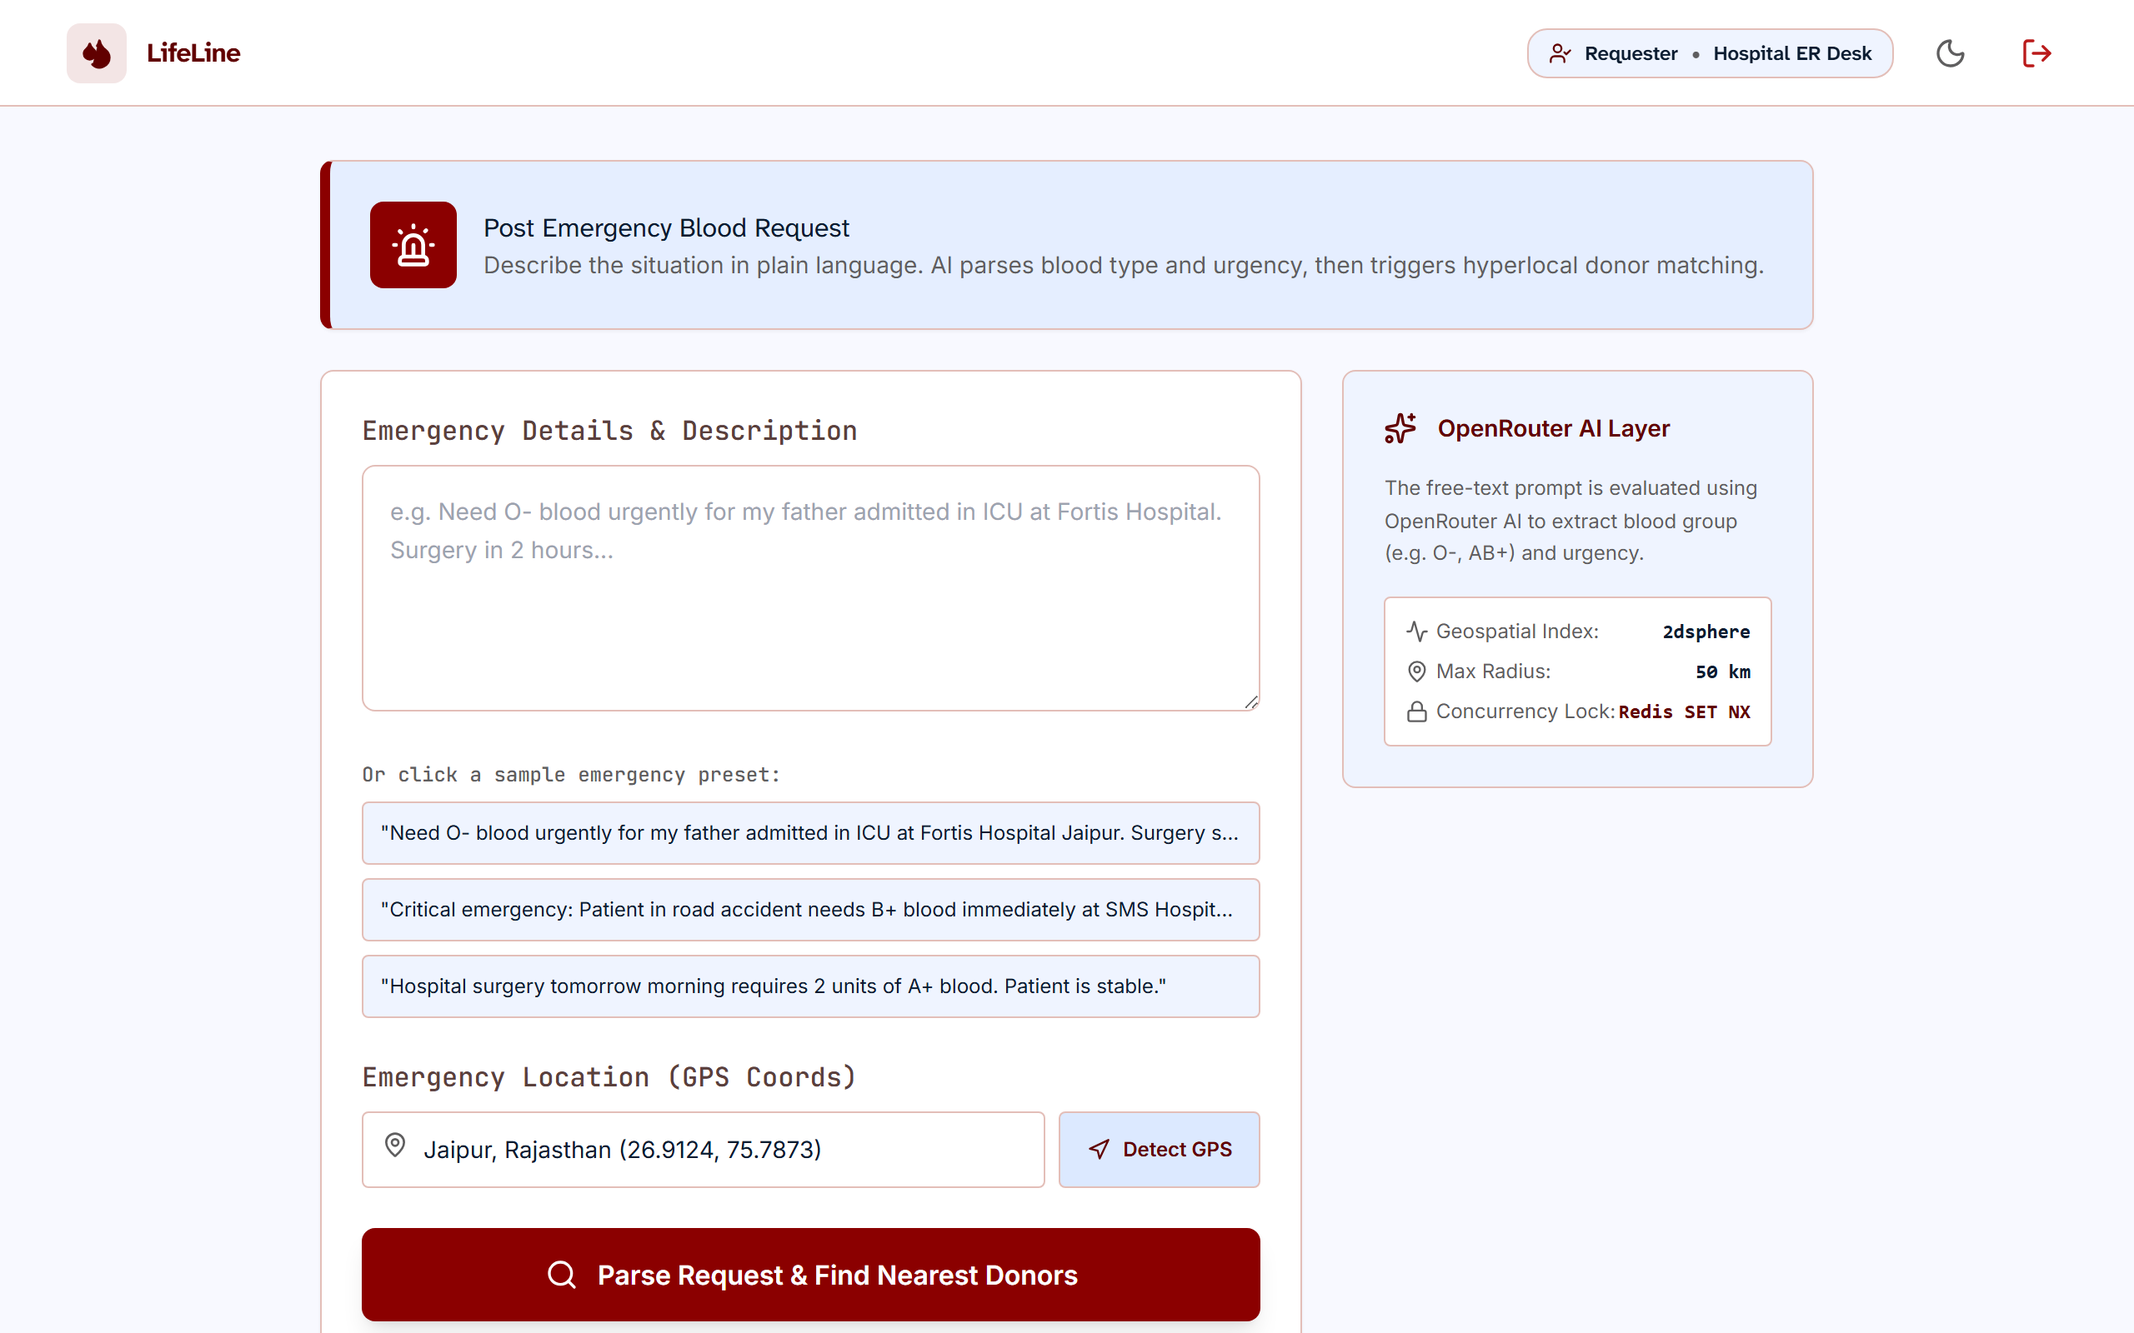
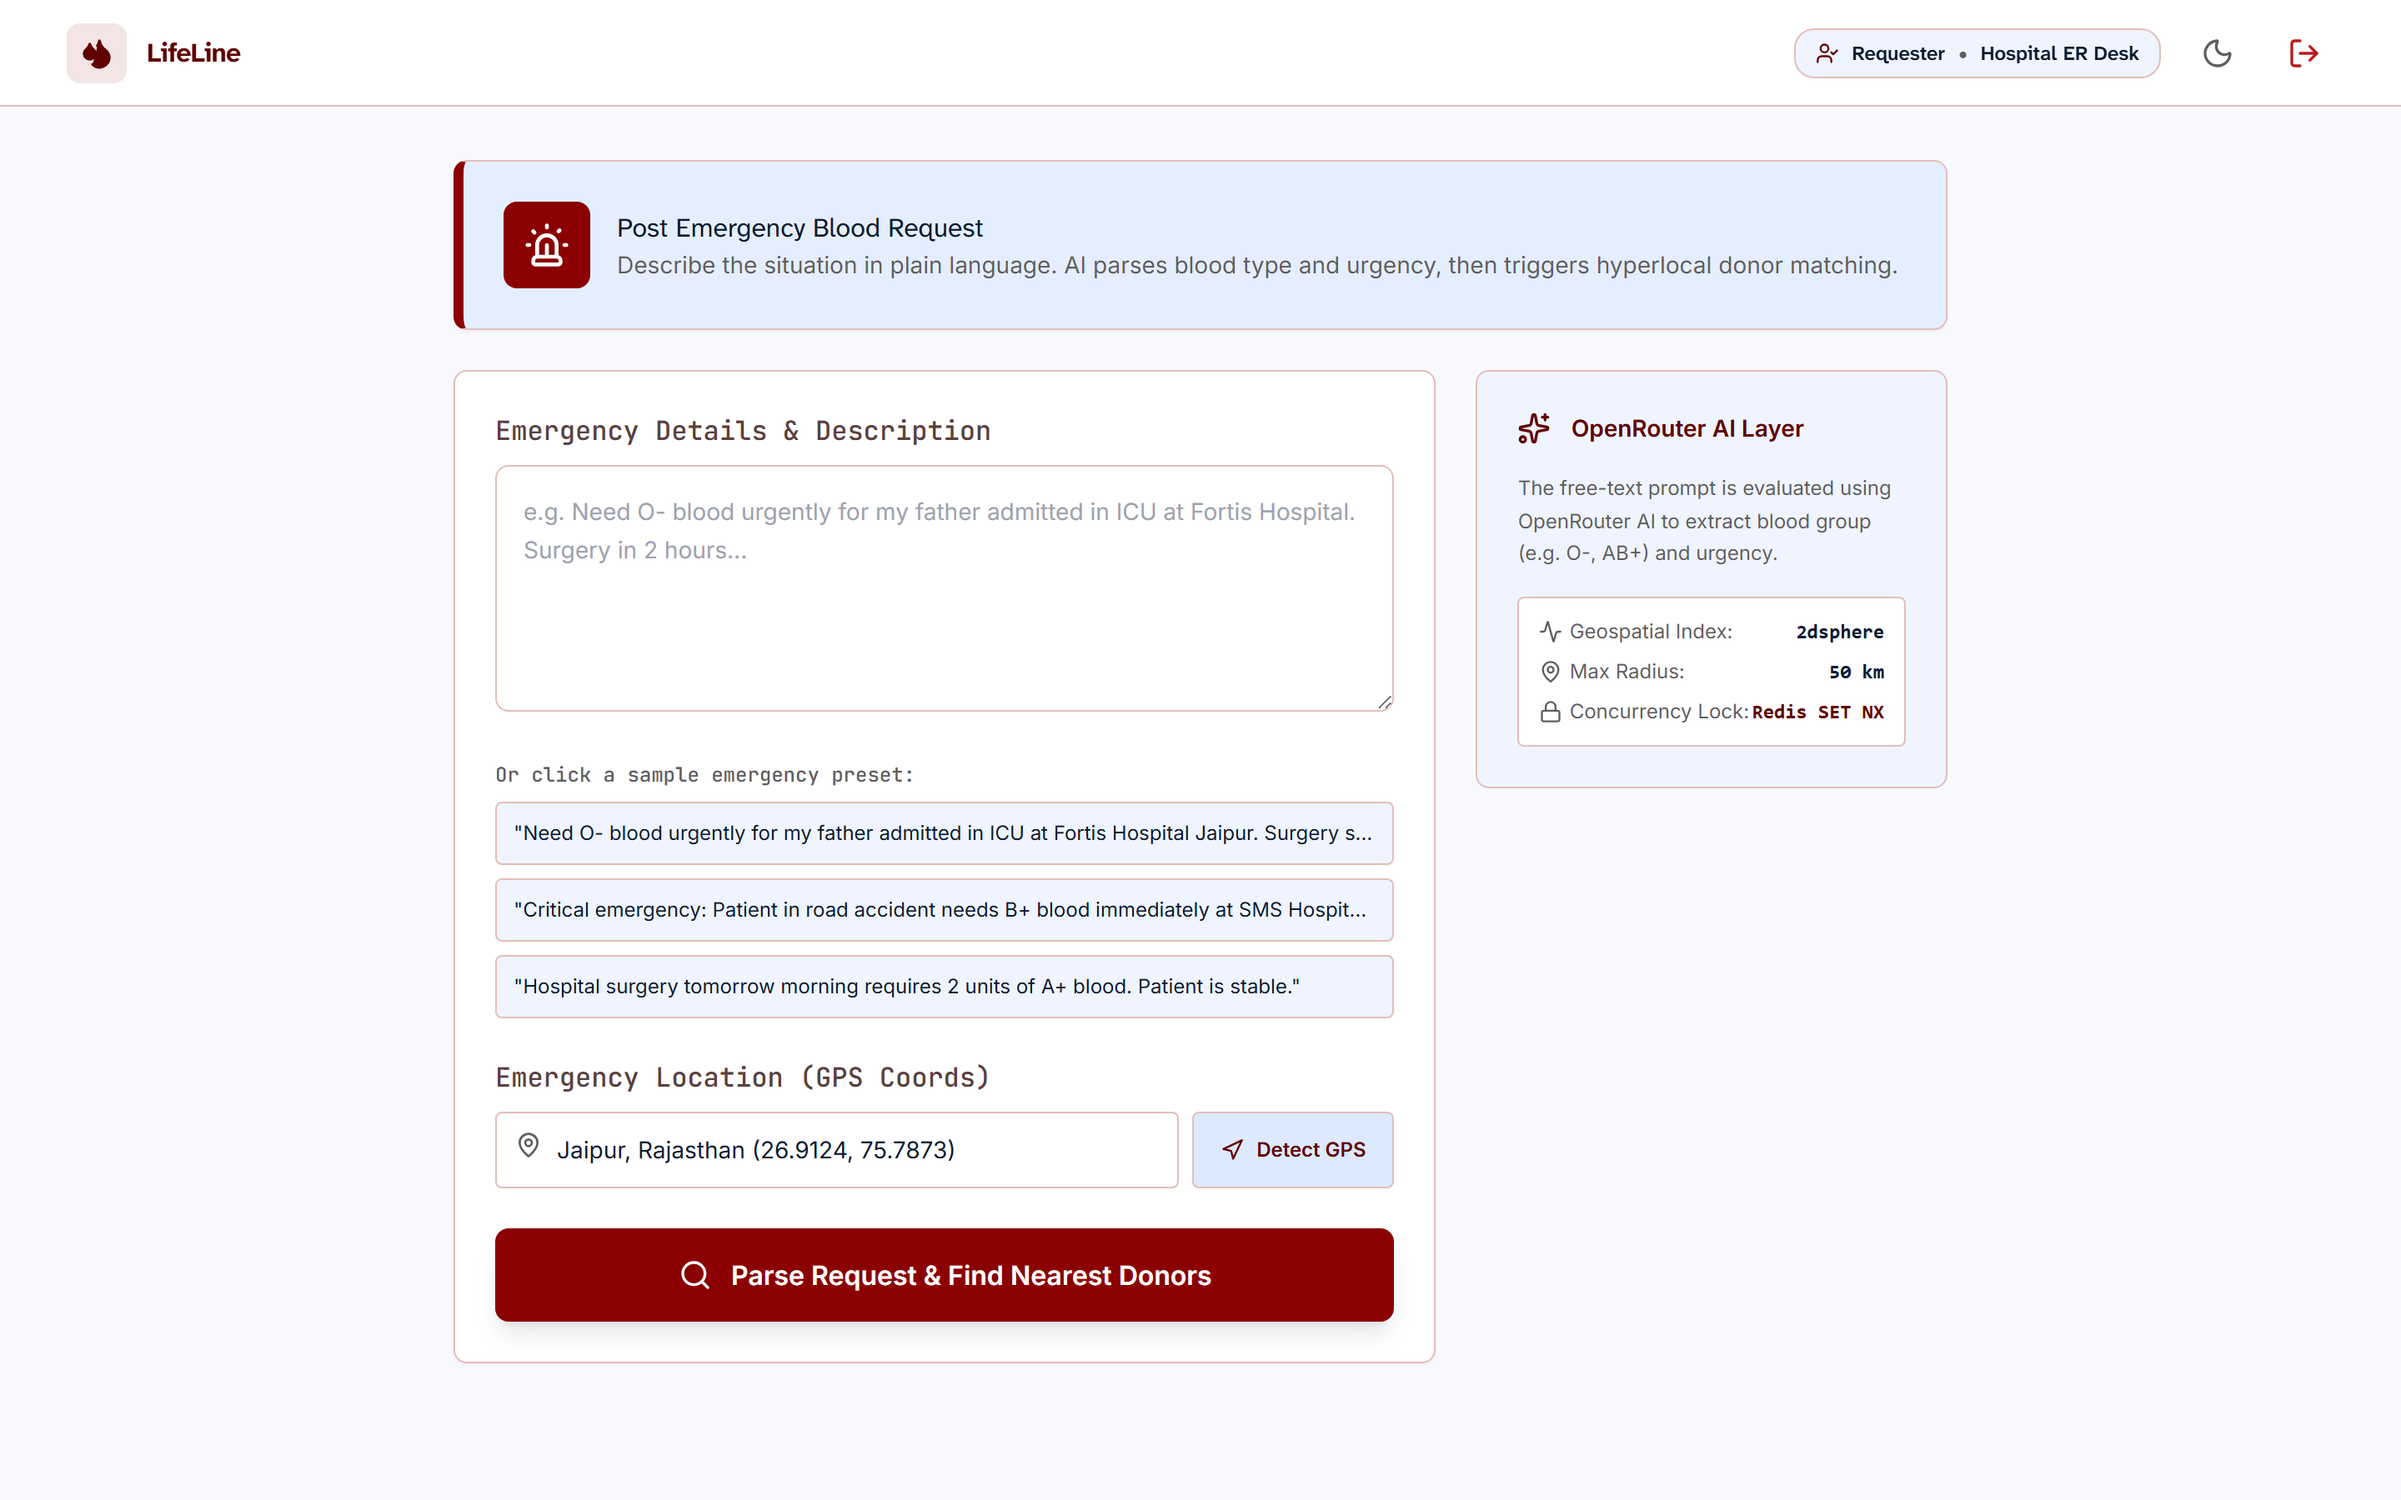
docs: update all 5 screenshots with verified authenticated UI flows

diff --git a/scripts/capture_screenshots.py b/scripts/capture_screenshots.py
@@ -1,108 +1,113 @@
 """
-Script to capture clean, professional UI screenshots for LifeLine documentation.
-Runs headlessly via Playwright and saves high-res screenshots to docs/screenshots/.
+Automated clean screenshot capturer capturing all 5 real UI screens without console.
 """
 import os
-import time
 from playwright.sync_api import sync_playwright
 
 SCREENSHOT_DIR = os.path.abspath("docs/screenshots")
 os.makedirs(SCREENSHOT_DIR, exist_ok=True)
 
-def run():
+def capture_all():
     with sync_playwright() as p:
         browser = p.chromium.launch(headless=True)
-        context = browser.new_context(
-            viewport={"width": 1280, "height": 800},
-            device_scale_factor=2  # High-DPI / Retina quality
+
+        # ----------------------------------------------------
+        # 1. REQUESTER FLOW (Intake, Matching, Reservation, Audit)
+        # ----------------------------------------------------
+        print("--- [1/2] Requester Flow ---", flush=True)
+        req_ctx = browser.new_context(
+            viewport={"width": 1440, "height": 900},
+            device_scale_factor=2
         )
-        page = context.new_page()
+        page1 = req_ctx.new_page()
 
-        print("[1/5] Capturing Auth / Emergency Intake Screen...")
-        page.goto("http://localhost:5173/")
-        page.wait_for_timeout(2000)
+        # Login as requester
+        page1.goto("http://localhost:5173/login")
+        page1.wait_for_timeout(1000)
 
-        # 1. Auth / Intake Screen
-        # If on login, let's log in or switch to requester flow
-        # Let's check if we can log in with a seed user
-        # Let's fill email & password
-        email_input = page.locator("input[type='text'], input[type='email']").first
-        pass_input = page.locator("input[type='password']").first
-        
-        if email_input.is_visible():
-            email_input.fill("requester@lifeline.org")
-            pass_input.fill("password123")
-            # Click sign in / submit
-            submit_btn = page.locator("button[type='submit']").first
-            if submit_btn.is_visible():
-                submit_btn.click()
-                page.wait_for_timeout(2000)
+        signin_tab = page1.locator("button[type='button']:has-text('Sign In')")
+        if signin_tab.count() > 0:
+            signin_tab.first.click()
 
-        # Save Emergency Intake screen
-        intake_file = os.path.join(SCREENSHOT_DIR, "emergency-intake.png")
-        page.screenshot(path=intake_file)
-        print(f"Saved: {intake_file}")
+        page1.locator("input[type='text'], input[type='email']").first.fill("requester@lifeline.org")
+        page1.locator("input[type='password']").first.fill("password123")
+        page1.locator("button[type='submit']").first.click()
 
-        # Fill emergency request text if textarea exists
-        textarea = page.locator("textarea")
-        if textarea.is_visible():
-            textarea.fill("Need O- blood urgently for my father admitted in ICU at Fortis Hospital Jaipur. Surgery scheduled in 2 hours.")
-            page.wait_for_timeout(500)
-            intake_filled_file = os.path.join(SCREENSHOT_DIR, "emergency-intake.png")
-            page.screenshot(path=intake_filled_file)
+        page1.wait_for_url("**/intake", timeout=10000)
+        page1.wait_for_timeout(1500)
 
-            # Click submit to view matches
-            find_btn = page.locator("button:has-text('Find Matching Donors'), button:has-text('Submit'), button[type='submit']").first
-            if find_btn.is_visible():
-                find_btn.click()
-                page.wait_for_timeout(3000)
+        # 1. Emergency Intake Screenshot
+        textarea = page1.locator("textarea")
+        textarea.fill("Need AB+ blood urgently for accident victim admitted at SMS Hospital Jaipur. Surgery scheduled in 1 hour.")
+        page1.wait_for_timeout(1000)
 
-        # 2. Matching Candidates Screen
-        print("[2/5] Capturing Matching Candidates Screen...")
-        matching_file = os.path.join(SCREENSHOT_DIR, "matching-screen.png")
-        page.screenshot(path=matching_file)
-        print(f"Saved: {matching_file}")
+        intake_path = os.path.join(SCREENSHOT_DIR, "emergency-intake.png")
+        page1.screenshot(path=intake_path)
+        print(f"1. Captured: {intake_path}", flush=True)
 
-        # Click Reserve on the first candidate if available
-        reserve_btn = page.locator("button:has-text('Reserve Donor'), button:has-text('Reserve')").first
+        # Submit emergency request
+        page1.locator("button[type='submit']").first.click()
+        page1.wait_for_url("**/matches", timeout=12000)
+        page1.wait_for_timeout(2500)
+
+        # 2. Matching Candidates Screenshot
+        matching_path = os.path.join(SCREENSHOT_DIR, "matching-screen.png")
+        page1.screenshot(path=matching_path)
+        print(f"2. Captured: {matching_path}", flush=True)
+
+        # Reserve Top Donor
+        reserve_btn = page1.locator("button:has-text('Reserve Donor')").first
         if reserve_btn.is_visible():
             reserve_btn.click()
-            page.wait_for_timeout(2500)
+            page1.wait_for_url("**/reservation/**", timeout=10000)
+            page1.wait_for_timeout(2500)
 
-        # 3. Reservation Status Screen
-        print("[3/5] Capturing Reservation Status Screen...")
-        reservation_file = os.path.join(SCREENSHOT_DIR, "reservation-status.png")
-        page.screenshot(path=reservation_file)
-        print(f"Saved: {reservation_file}")
+            # 3. Reservation Status Screenshot
+            res_path = os.path.join(SCREENSHOT_DIR, "reservation-status.png")
+            page1.screenshot(path=res_path)
+            print(f"3. Captured: {res_path}", flush=True)
 
-        # 4. Donor Dashboard Screen
-        print("[4/5] Capturing Donor Dashboard Screen...")
-        page.goto("http://localhost:5173/dashboard")
-        page.wait_for_timeout(2000)
-        # If redirected to login, login as donor
-        if "login" in page.url:
-            email_input = page.locator("input[type='text'], input[type='email']").first
-            pass_input = page.locator("input[type='password']").first
-            if email_input.is_visible():
-                email_input.fill("donor@lifeline.org")
-                pass_input.fill("password123")
-                page.locator("button[type='submit']").first.click()
-                page.wait_for_timeout(2000)
-        
-        dashboard_file = os.path.join(SCREENSHOT_DIR, "donor-dashboard.png")
-        page.screenshot(path=dashboard_file)
-        print(f"Saved: {dashboard_file}")
+        # 4. Audit Trail Screenshot
+        page1.goto("http://localhost:5173/audit")
+        page1.wait_for_timeout(2000)
+        audit_path = os.path.join(SCREENSHOT_DIR, "audit-verify.png")
+        page1.screenshot(path=audit_path)
+        print(f"4. Captured: {audit_path}", flush=True)
 
-        # 5. Audit Verify Screen
-        print("[5/5] Capturing Audit Verify Screen...")
-        page.goto("http://localhost:5173/audit")
-        page.wait_for_timeout(2000)
-        audit_file = os.path.join(SCREENSHOT_DIR, "audit-verify.png")
-        page.screenshot(path=audit_file)
-        print(f"Saved: {audit_file}")
+        req_ctx.close()
 
+        # ----------------------------------------------------
+        # 2. DONOR FLOW (Dr. Aarav Sharma)
+        # ----------------------------------------------------
+        print("\n--- [2/2] Donor Flow ---", flush=True)
+        donor_ctx = browser.new_context(
+            viewport={"width": 1440, "height": 900},
+            device_scale_factor=2
+        )
+        page2 = donor_ctx.new_page()
+
+        page2.goto("http://localhost:5173/login")
+        page2.wait_for_timeout(1000)
+
+        signin_tab = page2.locator("button[type='button']:has-text('Sign In')")
+        if signin_tab.count() > 0:
+            signin_tab.first.click()
+
+        page2.locator("input[type='text'], input[type='email']").first.fill("aarav@lifeline.org")
+        page2.locator("input[type='password']").first.fill("password123")
+        page2.locator("button[type='submit']").first.click()
+
+        page2.wait_for_url("**/dashboard", timeout=10000)
+        page2.wait_for_timeout(2500)
+
+        # 5. Donor Dashboard Screenshot
+        donor_path = os.path.join(SCREENSHOT_DIR, "donor-dashboard.png")
+        page2.screenshot(path=donor_path)
+        print(f"5. Captured: {donor_path}", flush=True)
+
+        donor_ctx.close()
         browser.close()
-        print("All screenshots captured cleanly without browser DevTools!")
+        print("\nSUCCESS: All 5 clean UI screenshots captured perfectly!", flush=True)
 
 if __name__ == "__main__":
-    run()
+    capture_all()

diff --git a/scripts/capture_reservation.py b/scripts/capture_reservation.py
@@ -1,0 +1,60 @@
+"""
+Script to capture clean reservation-status.png from the live reservation screen.
+"""
+import os
+from playwright.sync_api import sync_playwright
+
+SCREENSHOT_DIR = os.path.abspath("docs/screenshots")
+
+def capture_reservation():
+    with sync_playwright() as p:
+        browser = p.chromium.launch(headless=True)
+        ctx = browser.new_context(
+            viewport={"width": 1440, "height": 900},
+            device_scale_factor=2
+        )
+        page = ctx.new_page()
+
+        print("Logging in as requester...", flush=True)
+        page.goto("http://localhost:5173/login")
+        page.wait_for_timeout(1000)
+
+        signin_tab = page.locator("button[type='button']:has-text('Sign In')")
+        if signin_tab.count() > 0:
+            signin_tab.first.click()
+
+        page.locator("input[type='text'], input[type='email']").first.fill("requester@lifeline.org")
+        page.locator("input[type='password']").first.fill("password123")
+        page.locator("button[type='submit']").first.click()
+
+        page.wait_for_url("**/intake", timeout=10000)
+        page.wait_for_timeout(1000)
+        print("At intake...", flush=True)
+
+        # Submit request
+        textarea = page.locator("textarea")
+        textarea.fill("Need O- blood urgently for my father admitted in ICU at Fortis Hospital Jaipur. Surgery scheduled in 2 hours.")
+        page.locator("button[type='submit']").first.click()
+
+        page.wait_for_url("**/matches", timeout=12000)
+        page.wait_for_timeout(2500)
+        print("At matches screen...", flush=True)
+
+        # Click Reserve Donor button
+        reserve_btn = page.locator("button:has-text('Reserve Donor')").first
+        print("Found reserve button, clicking...", flush=True)
+        reserve_btn.click()
+
+        page.wait_for_url("**/reservation/**", timeout=10000)
+        page.wait_for_timeout(2000)
+        print("At reservation screen:", page.url, flush=True)
+
+        res_path = os.path.join(SCREENSHOT_DIR, "reservation-status.png")
+        page.screenshot(path=res_path)
+        print(f"Captured clean reservation-status: {res_path}", flush=True)
+
+        ctx.close()
+        browser.close()
+
+if __name__ == "__main__":
+    capture_reservation()
